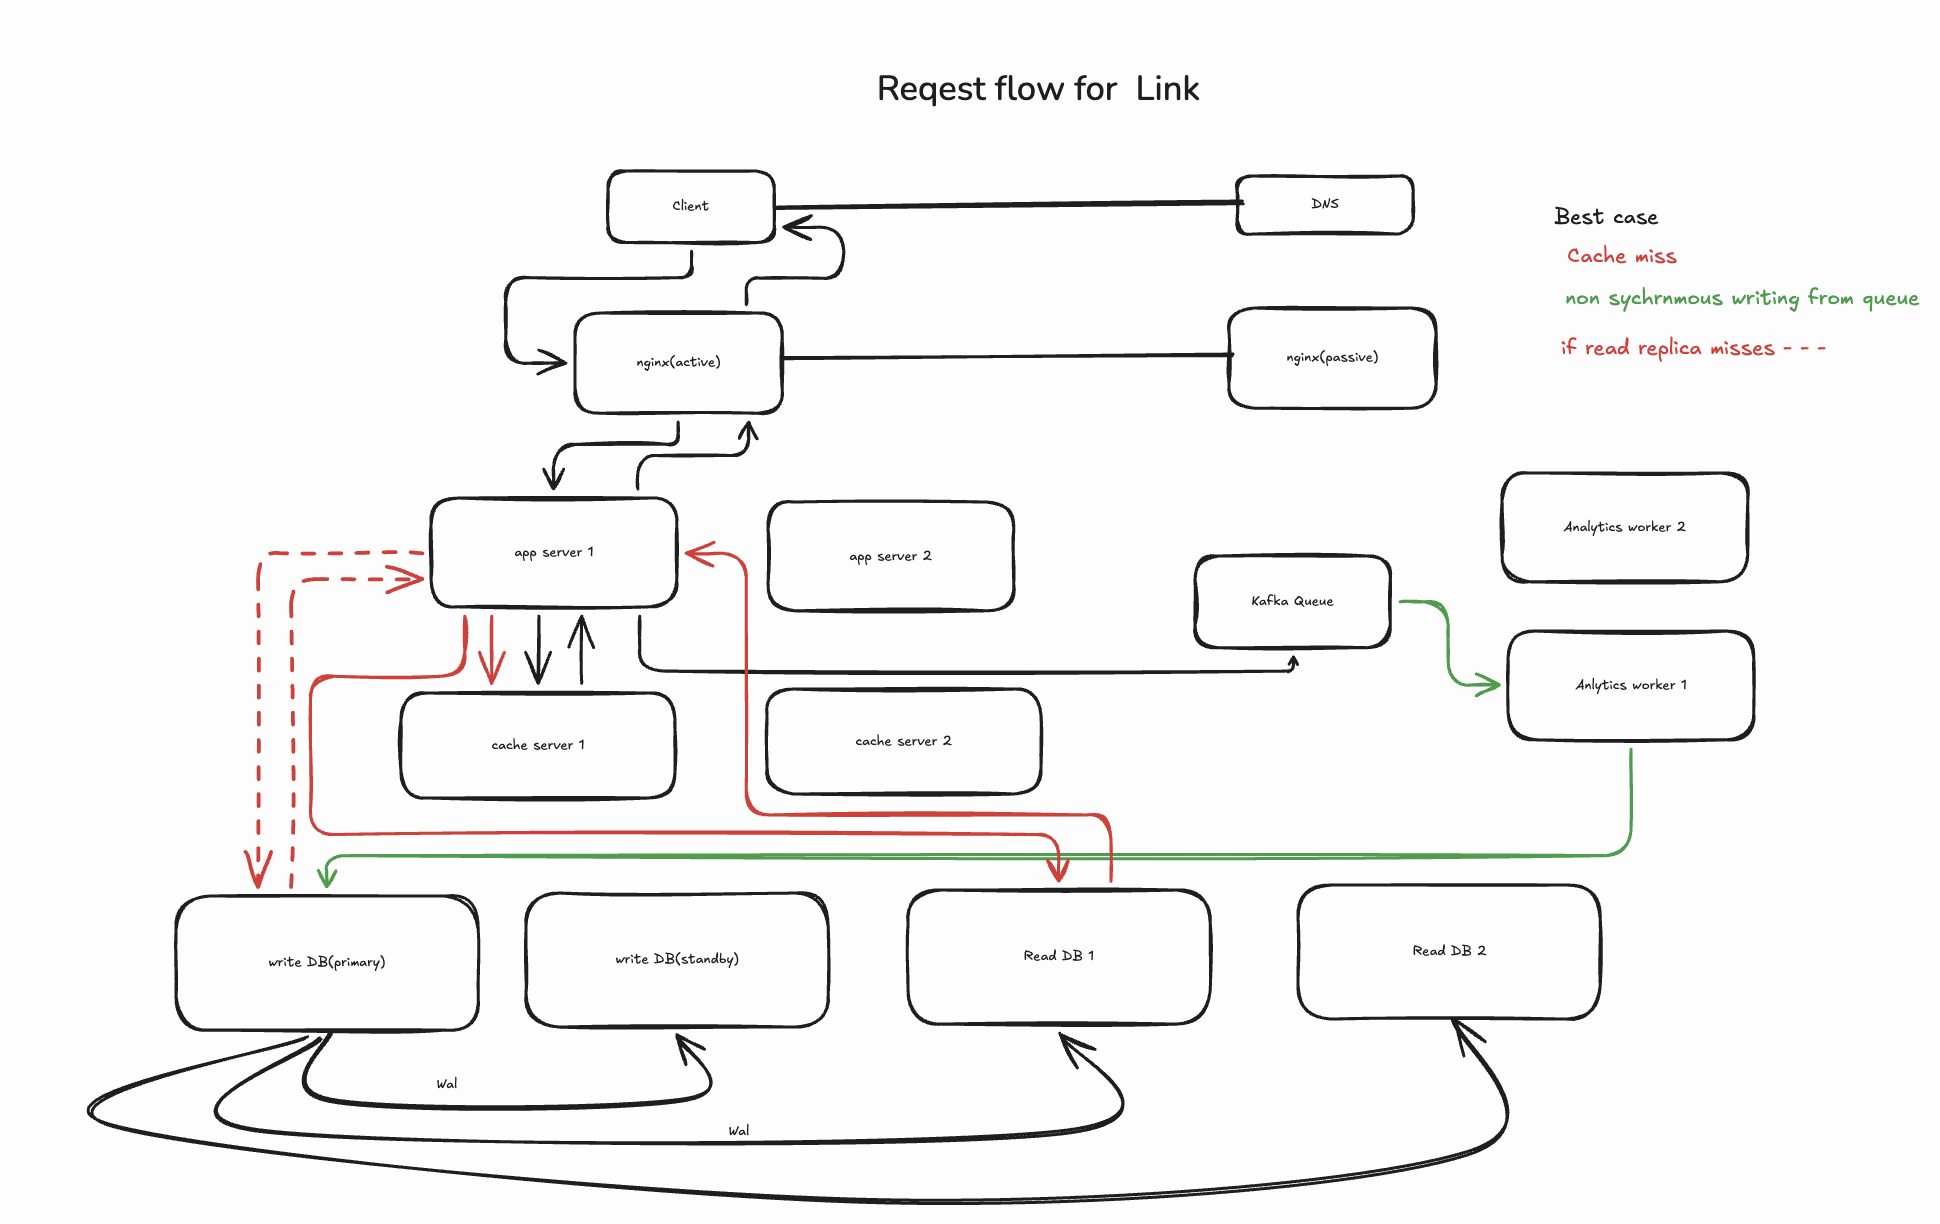
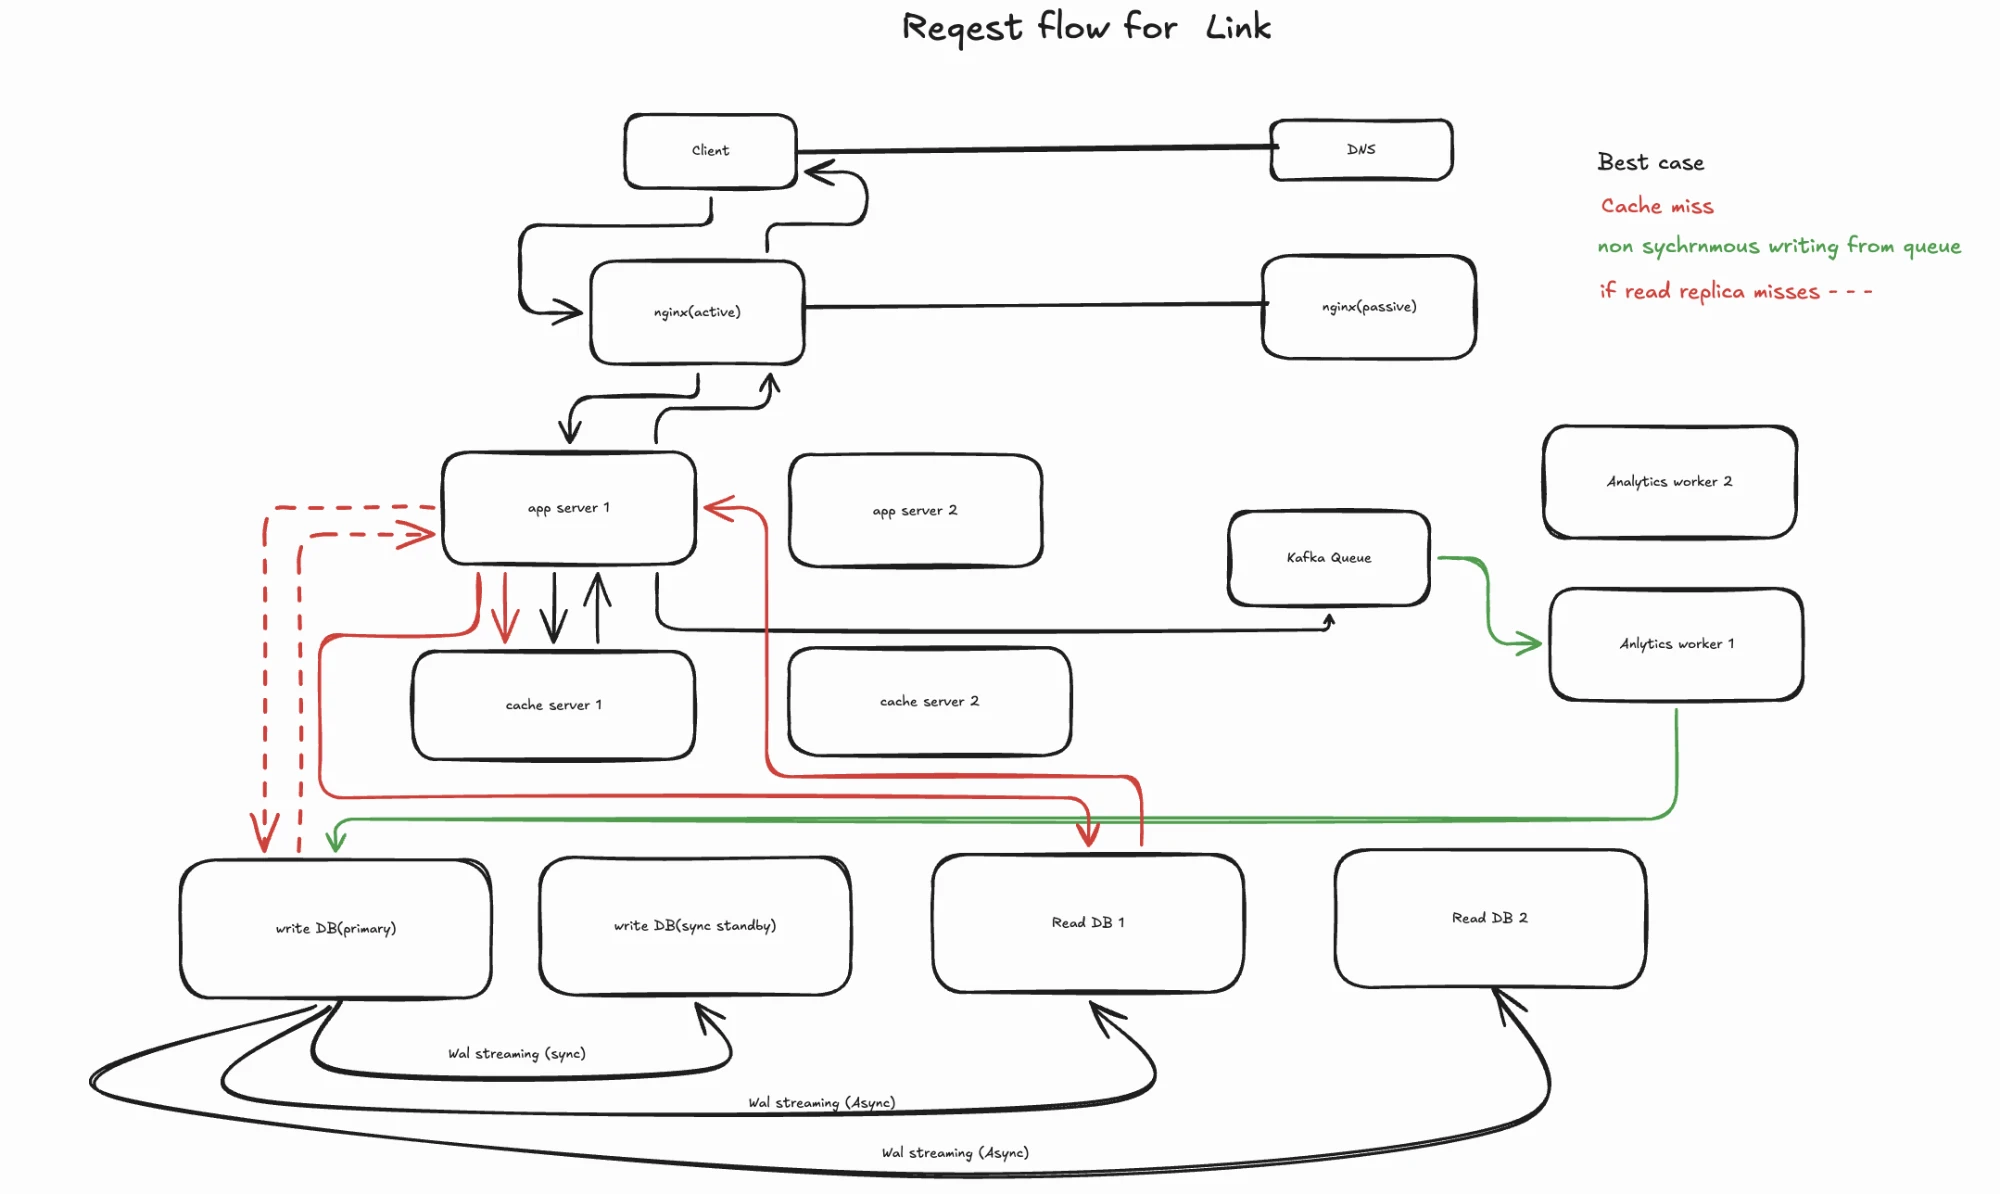
url-shortener phase 2: final read-flow diagram (WAL sync/async labelled)

diff --git a/01-url-shortener/phase-2.md b/01-url-shortener/phase-2.md
@@ -158,7 +158,7 @@ Interview line: "~115 GB of data over 5 years, provision ~320 GB per node — on
 ### Read flow (redirect)
 ![Phase 2 read flow](phase-2-read-flow.png)
 
-*9 Nov 2026.* Black = cache hit · red = cache miss → read replica → app fills cache · red dashed = replica miss → primary fallback · green = Kafka → analytics workers → batched upsert into primary.
+*9 Nov 2026.* Black = cache hit · red = cache miss → read replica → app fills cache · red dashed = replica miss → primary fallback · green = Kafka → analytics workers → batched upsert into primary · WAL: sync to standby, async to read replicas.
 - [ ] Write flow (create / signup / delete) diagram.
 
 ## 7. Deep dives
